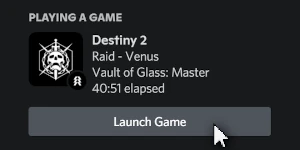
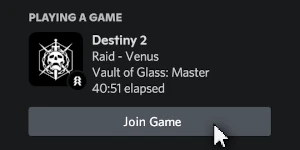
update web

Changed region(s): [[0.36, 0.7733, 0.63, 0.8533]]

diff --git a/web/src/js/ControlPanel.tsx b/web/src/js/ControlPanel.tsx
@@ -184,15 +184,15 @@ export default function () {
                         {requiresVersion("v0.2.5-1")}
                     </div>
 
-                    <h4>Launch Game button</h4>
+                    <h4>Join Game button</h4>
                     <div>
                         <CheckboxInput name="Enabled" json="joinGameButton" value={settings.joinGameButton}
-                            update={setSetting} text="Adds a 'Launch Game' button to your status that
-                            allows anyone to launch Destiny 2." />
+                            update={setSetting} text="Adds a 'Join Game' button to your status that
+                            allows anyone playing Destiny 2 on steam to join your fireteam." />
                         {requiresVersion("v0.2.1")}
 
                         <CheckboxInput name="Orbit or social spaces only" json="joinOnlySocial"
-                            value={settings.joinOnlySocial} update={setSetting} text="Only show the Launch Game
+                            value={settings.joinOnlySocial} update={setSetting} text="Only show the Join Game
                             button when you're in orbit or social spaces." /> {requiresVersion("v0.1.9")}
                     </div>
                     <br />
@@ -248,20 +248,17 @@ export default function () {
             </div>
 
             <div id="panel-links" className="boxed">
-                <h2>Come hang out</h2>
-                <p>Got feedback, questions or interesting ideas? Need a place to vent out about teleporting Overload
-                    Captains, or just be with some friendly people? Or come for the opt-in pings when
-                    there's a new release.<br />Come join the Discord server!</p>
-                <a href="https://richdestiny.app/discord" target="_blank" rel="noopener noreferrer">
-                    <img alt="Discord" src="https://img.shields.io/discord/604679605630009384
-                        ?label=Discord&color=6c82cf"/>
-                </a>
-
-                <h3>Or show some support</h3>
+                <h2>Show some support</h2>
                 <p>By leaving a star on GitHub :)</p>
                 <a href="https://github.com/lieuweberg/rich-destiny" target="_blank" rel="noopener noreferrer">
                     <img alt="GitHub stars" src="https://img.shields.io/github/stars/lieuweberg/rich-destiny
                         ?label=GitHub%20stars&color=6c82cf"></img>
+                </a>
+                <p>Got feedback, questions or interesting ideas? Or come for the opt-in pings when
+                    there's a new release.<br />Come join the Discord server!</p>
+                <a href="https://richdestiny.app/discord" target="_blank" rel="noopener noreferrer">
+                    <img alt="Discord" src="https://img.shields.io/discord/604679605630009384
+                        ?label=Discord&color=6c82cf"/>
                 </a>
             </div>
         </div>
@@ -283,7 +280,7 @@ function handleHTTPError(err) {
     if (err.response) {
         toast.error(<p>{err.response.data}</p>);
     } else if (err.request) {
-        toast.error(<p>rich-destiny could not be reached. Do you have it installed? Is it running?</p>);
+        toast.error(<p>rich-destiny could not be reached. Do you have it installed? Is it running? If it's installed, try disabling your adblock.</p>);
     } else {
         toast.error(<p>Could not make request... <code>${err.message}</code></p>);
     }

diff --git a/web/src/js/Home.tsx b/web/src/js/Home.tsx
@@ -55,6 +55,7 @@ export default function() {
         <div id="title">
             <h1>rich-destiny</h1>
             <p>a discord rich presence tool for destiny 2 (pc)</p>
+            <p>latest update v0.2.17: the join game button returns!</p>
             <div>
                 <Link to="/download">Download</Link>
                 <Link to="/cp">Control Panel</Link>
@@ -94,10 +95,10 @@ export default function() {
                 <div className="image">
                     <img width="300px" height="150px" src={home1} alt="screenshot showing tooltip" />
                 </div>
-                <hr />
+                {/* <hr /> */}
                 <div>
                     <h3>Forge your fireteam</h3>
-                    <p>Anyone playing Destiny 2 on Steam can easily launch the game through your status. <small>(optional)</small></p>
+                    <p>No more sharing join codes: anyone playing on Steam can easily join your fireteam through your status. Perfect for LFG. <small>(optional)</small></p>
                 </div>
             </div>
             {/* <div className="card">
@@ -115,7 +116,7 @@ export default function() {
                 <div className="image">
                     <img width="300px" height="150px" src={home2} alt="screenshot showing tooltip"/>
                 </div>
-                <hr/>
+                {/* <hr/> */}
                 <div>
                     <h3>Make your class proud</h3>
                     <p>Displays current class and power level as a tooltip on the class icon.</p>
@@ -125,7 +126,7 @@ export default function() {
                 <div className="image">
                     <img width="300px" height="150px" src={home3} title="credit: tiberaus" alt="image of errors before arrow, checkmarks after"/>
                 </div>
-                <hr/>
+                {/* <hr/> */}
                 <div>
                     <h3>It just works</h3>
                     <p>Runs in the background with minimal resource overhead. Auto updates by default. Fully self-contained.</p>
@@ -139,10 +140,11 @@ export default function() {
             <h1>What's so special about this?</h1>
             <p>After <Link to="/download">downloading</Link>, this program will
             be started in the background, then sit idly, waiting until you start Destiny 2.</p>
-            <p>All alternatives have a built-in User Interface. This adds a lot of
-            overhead while rarely being used. Instead, rich-destiny uses a hosted web-based interface for customising
-            settings to keep resource usage, installation size and update size minimal.</p>
-            <p>Additionally, the intention is that you configure the program once and then never touch it again.</p>
+            <p>The intention is that you configure the program once and then never touch it again. You won't even notice it's there.
+                There's no website to head to every time or program to manually start. It kind of just works.</p>
+            <p>When you start Destiny 2, rich-destiny will become active: it connects to Discord and interacts with the Bungie API,
+                until you close the game again.</p>
+            <p>Also it shows the encounter of the raid you're in for your first run every week... which is just pretty cool.</p>
         </div>
     </>
 }

diff --git a/web/src/js/Root.tsx b/web/src/js/Root.tsx
@@ -86,16 +86,19 @@ function Root() {
             <img className="svg-spacer" src={footerWaves} alt="" />
             <div>
                 <div>
-                    <p>2020-2023 &copy; <a href="https://lieuweberg.com" target="_blank"
+                    <p>2020-2025 &copy; <a href="https://lieuweberg.com" target="_blank"
                         rel="noopener noreferrer">lieuwe_berg</a> <br />
-                        Destiny 2 and its related assets belong to Bungie, Inc.</p>
+                        Destiny 2 and its related assets belong to Bungie, Inc. <br />
+                        <small>Also check out: <a href="http://bray.tech" target="_blank" rel="noopener">Braytech</a>
+                        <a href="http://engram.blue" target="_blank" rel="noopener">Blue engram</a>
+                        <a href="http://d2lostsector.report" target="_blank" rel="noopener">D2 Lost Sector Report</a></small></p>
                 </div>
                 <div>
                     <a href="https://richdestiny.app/discord" target="_blank"
                         rel="noopener noreferrer">Discord</a>
                     <a href="https://github.com/lieuweberg/rich-destiny" target="_blank"
                         rel="noopener noreferrer">GitHub</a>
-                    <a href="https://twitter.com/richdestinyapp" target="_blank"
+                    <a href="https://x.com/richdestinyapp" target="_blank"
                         rel="noopener noreferrer">Twitter</a>
                 </div>
             </div>

diff --git a/web/src/js/Download.tsx b/web/src/js/Download.tsx
@@ -148,12 +148,13 @@ export default function() {
         </div>
         <div className="generic-text">
             <h1>Installation</h1>
+            <p>Don't worry, it's really simple.</p>
             <ol id="install-steps">
                 <li>
                     <p>Download rich-destiny by clicking the 'Download {r.version}' button above.</p>
                 </li>
                 <li>
-                    <p>Double click <code>rich-destiny.exe</code>. Windows SmartScreen will pop up saying
+                    <p>Open the downloaded <code>rich-destiny.exe</code>. Windows SmartScreen will pop up saying
                     that the file is from an unknown source and can't be trusted<sup>[1]</sup>. <b>Click
                     'More info' and then 'Run anyway'.</b></p>
                 </li>

diff --git a/web/src/css/home.scss b/web/src/css/home.scss
@@ -44,6 +44,16 @@
             margin-left: 50px;
         }
     }
+
+    :nth-child(2) {
+        margin-bottom: 0px;
+    }
+
+    :nth-child(3) {        
+        color: #d1d1d1;
+        margin-top: 0px;
+        font-size: 0.9em;
+    }
 }
 
 #sliders {
@@ -117,7 +127,7 @@
     display: flex;
     justify-content: center;
     gap: 50px;
-    background-color: #353535;
+    background-color: #252525;
 
     @include isMobile() {
         flex-direction: column;
@@ -138,6 +148,7 @@
     }
 
     .image {
+        border: 1px solid #383a3f;
         border-radius: 5px;
         background-color: $presence;
         overflow: hidden;
